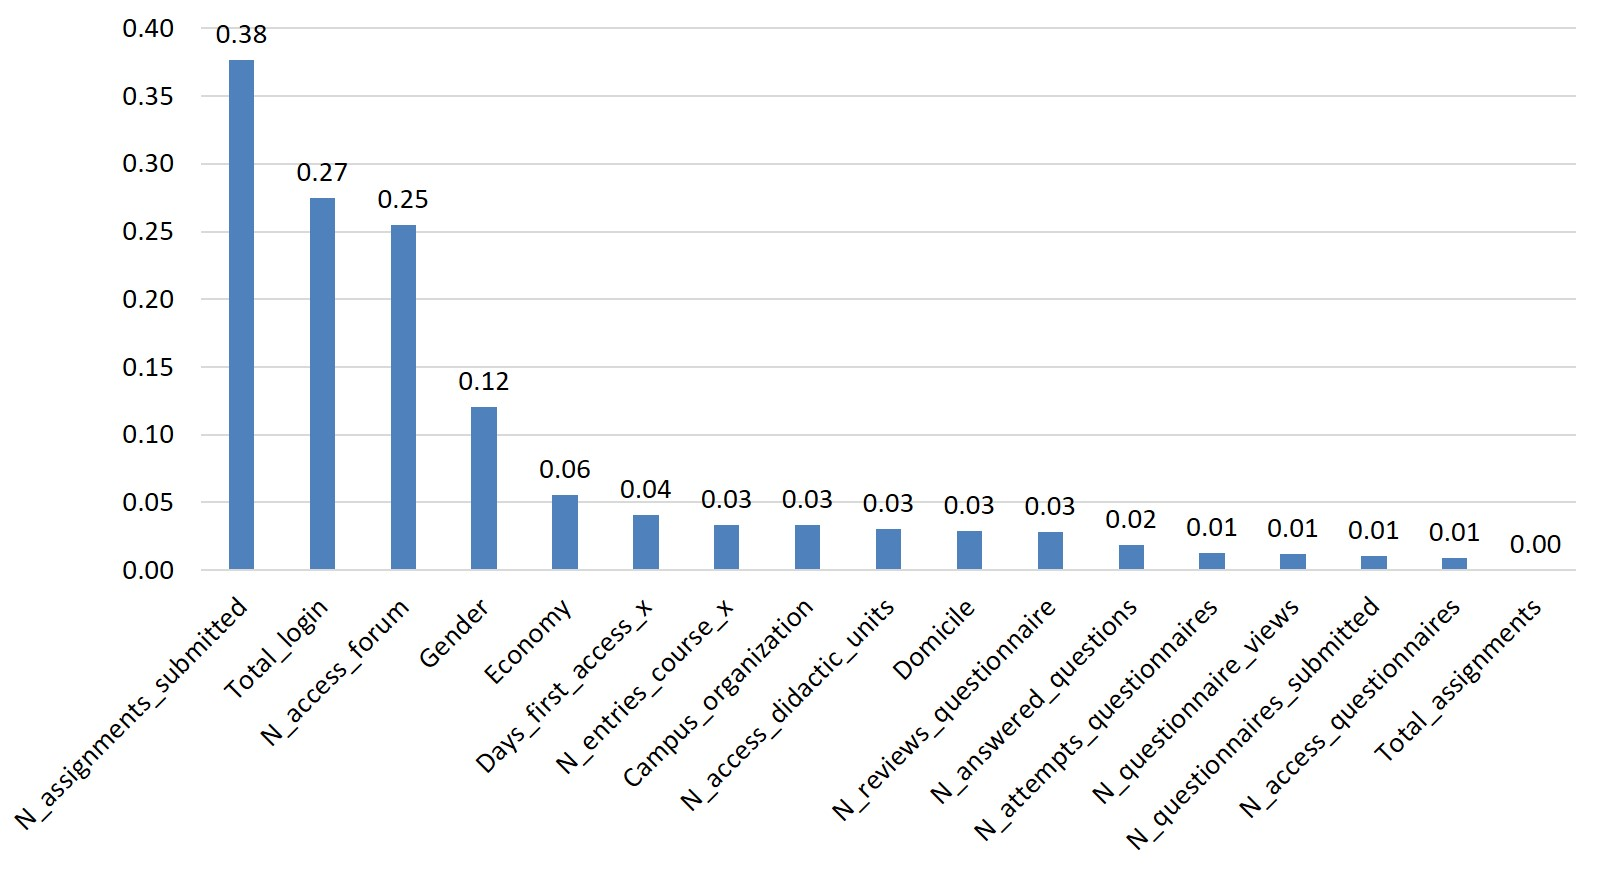
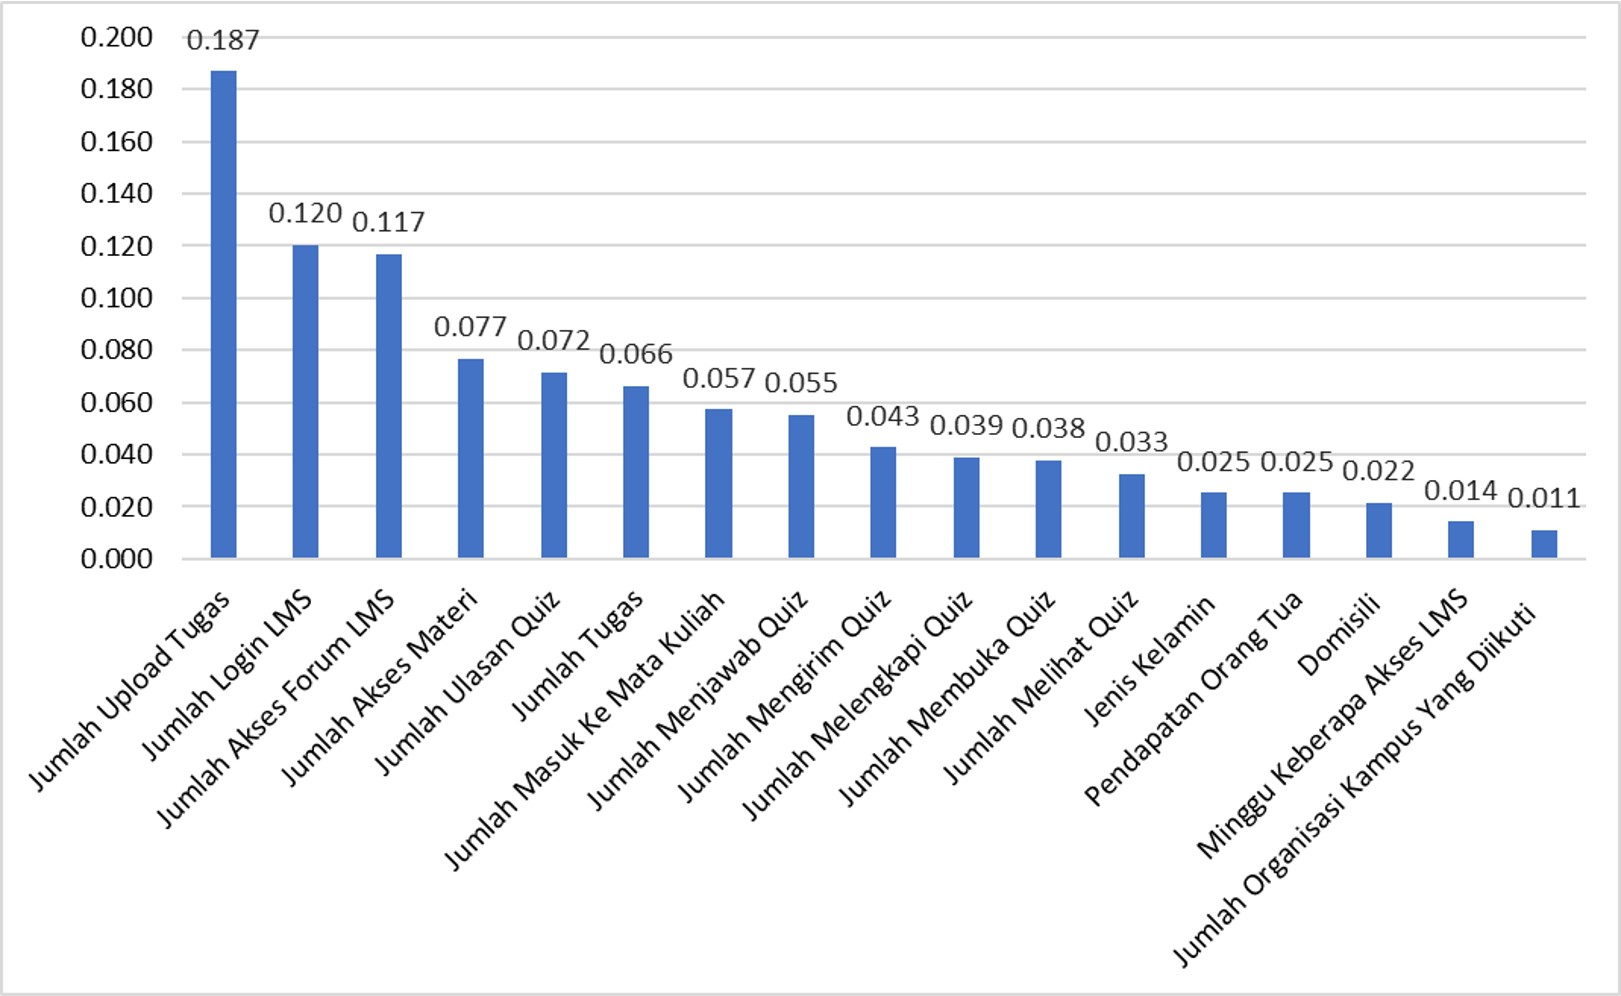
ganti gambar bobot dan nilai bobot

diff --git a/prediksi_performa_akademik.py b/prediksi_performa_akademik.py
@@ -57,21 +57,21 @@ def main():
 
         col1,col2 = st.columns(2)
         with col1:
-            Total_login = st.slider('Jumlah Login LMS :blue[(0,27)]', 0, 140)
-            N_access_forum = st.slider('Jumlah Akses Forum LMS :blue[(0,25)]', 0, 3000)
-            N_access_didactic_units = st.slider('Jumlah Akses Materi :blue[(0,03)]', 0, 750)
-            Total_assignments = st.slider('Jumlah Tugas :blue[(-0,26)]', 0, 1000)
-            N_assignments_submitted = st.slider('Jumlah Upload Tugas :blue[(0,38)]', 0, 150)
-            N_access_questionnaires = st.slider('Jumlah Membuka Quiz :blue[(0,01)]', 0, 1000)
-            N_attempts_questionnaires = st.slider('Jumlah Melengkapi Quiz :blue[(0,01)]', 0, 1000)
+            Total_login = st.slider('Jumlah Login LMS :blue[(0,120)]', 0, 140)
+            N_access_forum = st.slider('Jumlah Akses Forum LMS :blue[(0,117)]', 0, 3000)
+            N_access_didactic_units = st.slider('Jumlah Akses Materi :blue[(0,077)]', 0, 750)
+            Total_assignments = st.slider('Jumlah Tugas :blue[(0,066)]', 0, 1000)
+            N_assignments_submitted = st.slider('Jumlah Upload Tugas :blue[(0,187)]', 0, 150)
+            N_access_questionnaires = st.slider('Jumlah Membuka Quiz :blue[(0,038)]', 0, 1000)
+            N_attempts_questionnaires = st.slider('Jumlah Melengkapi Quiz :blue[(0,039)]', 0, 1000)
 
         with col2:
-            N_answered_questions = st.slider('Jumlah Menjawab Quiz :blue[(0,02)]', 0, 120)
-            N_questionnaire_views = st.slider('Jumlah Melihat Quiz :blue[(0,01)]', 0, 1000)
-            N_questionnaires_submitted = st.slider('Jumlah Mengirim Quiz :blue[(0.01)]', 0, 40)
-            N_reviews_questionnaire = st.slider('Jumlah Ulasan Quiz :blue[(0,03)]', 0, 500)
-            Days_first_access_x = st.slider('Minggu Keberapa Akses LMS :blue[(0,04)]', 0, 3)
-            N_entries_course_x = st.slider('Jumlah Masuk Ke Mata Kuliah :blue[(0,03)]', 0, 3000)
+            N_answered_questions = st.slider('Jumlah Menjawab Quiz :blue[(0,055)]', 0, 120)
+            N_questionnaire_views = st.slider('Jumlah Melihat Quiz :blue[(0,033)]', 0, 1000)
+            N_questionnaires_submitted = st.slider('Jumlah Mengirim Quiz :blue[(0,043)]', 0, 40)
+            N_reviews_questionnaire = st.slider('Jumlah Ulasan Quiz :blue[(0,072)]', 0, 500)
+            Days_first_access_x = st.slider('Minggu Keberapa Akses LMS :blue[(0,014)]', 0, 3)
+            N_entries_course_x = st.slider('Jumlah Masuk Ke Mata Kuliah :blue[(0,057)]', 0, 3000)
 
 
         st.subheader("Masukkan Data Non Akademik")
@@ -79,18 +79,18 @@ def main():
         cols,colss = st.columns(2)
         with cols:
             Gender = st.radio(
-                    'Jenis Kelamin :blue[(0,12)]',
+                    'Jenis Kelamin :blue[(0,025)]',
                     ('Pria', 'Wanita'))
             if Gender == 'Pria':
                 Gender = 1
             else:
                 Gender = 0
 
-            Campus_organization = st.slider('Jumlah Organisasi Kampus Yang Diikuti :blue[(0,03)]', 0, 4)
+            Campus_organization = st.slider('Jumlah Organisasi Kampus Yang Diikuti :blue[(0,011)]', 0, 4)
 
         with colss:
             Economy = st.selectbox(
-                    'Pendapatan Orang Tua :blue[(0,06)]',
+                    'Pendapatan Orang Tua :blue[(0,025)]',
                     ('100.000 - 600.000', '500.000 - 1.000.000', '1.000.000 - 2.500.000', 
                         '2.500.000 - 5.000.000', '5.000.000 - 7.500.000',
                         '7.500.000 - 10.000.000', '> 10.000.000')) 
@@ -110,7 +110,7 @@ def main():
                 Economy = 7
 
             Domicile = st.selectbox(
-                    'Jarak Kampus dengan Domisili :blue[(0,03)]',
+                    'Jarak Kampus dengan Domisili :blue[(0,022)]',
                     ('Dalam Kota', 'Kota Sebelah', 'Jarak Satu Kota', 'Dalam Satu Pulau', 'Diluar Pulau'))
 
             if Domicile == 'Dalam Kota':
